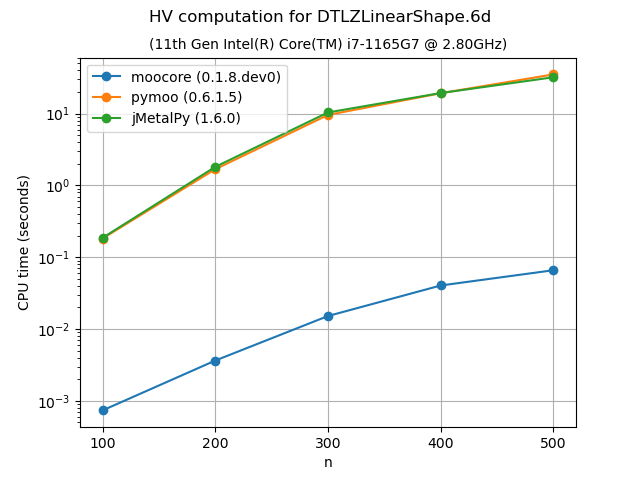
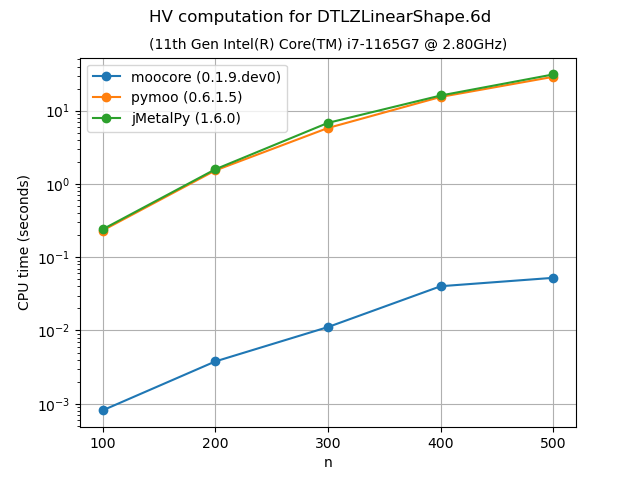
python/ Update benchmarks.

diff --git a/python/benchmarks/bench.py b/python/benchmarks/bench.py
@@ -2,6 +2,7 @@ import pathlib
 import numpy as np
 import pandas as pd
 import matplotlib.pyplot as plt
+from matplotlib.ticker import FixedLocator, FixedFormatter
 import moocore
 import timeit
 import cpuinfo
@@ -53,6 +54,10 @@ def get_range(lenx, start, stop, step):
     return np.arange(start, min(stop, lenx) + 1, step)
 
 
+def get_geomrange(lenx, start, stop, num):
+    return np.geomspace(start, min(stop, lenx), num=num, dtype=int)
+
+
 def get_package_version(package):
     package = package.split(maxsplit=1)[0]
     match package:
@@ -68,6 +73,8 @@ def get_package_version(package):
             from trieste import __version__ as version
         case "paretoset":
             from paretoset import __version__ as version
+        case "nevergrad":
+            from nevergrad import __version__ as version
         case "DEAP_er":
             # Requires version >= 0.2.0
             from deap_er import __version__ as version
@@ -112,6 +119,7 @@ class Bench:
     def __call__(self, what, n, *args, **kwargs):
         # FIXME: Ideally, bench() would call fun for each value in self.n
         assert n in self.n
+        # FIXME: Allow passing a setup() function.
         fun = self.bench[what]
         duration, value = timeit.Timer(lambda: fun(*args, **kwargs)).timeit(
             number=3
@@ -122,23 +130,29 @@ class Bench:
         print(f"{self.name}:{n}:{what}:{duration}")
         return value
 
-    def plots(self, title, file_prefix):
+    def plots(self, title, file_prefix, log="y"):
         for what in self.keys():
             self.times[what] = np.asarray(self.times[what])
 
+        logx = "x" in log
+        logy = "y" in log
         df = (
             pd.DataFrame(dict(n=self.n, **self.times))
             .set_index("n")
             .rename(columns=self.versions)
         )
-        df.plot(
+        ax = df.plot(
             grid=True,
-            logy=True,
+            logx=logx,
+            logy=logy,
             style="o-",
             title="",
             xticks=df.index,
             ylabel="CPU time (seconds)",
         )
+        if logx:
+            ax.xaxis.set_major_locator(FixedLocator(df.index))
+            ax.xaxis.set_major_formatter(FixedFormatter(df.index))
         plt.title(f"({self.cpu_model})", fontsize=10)
         plt.suptitle(f"{title} for {self.name}", fontsize=12)
         plt.savefig(f"{file_prefix}_bench-{self.name}-time.png")
@@ -157,13 +171,18 @@ class Bench:
                 .set_index("n")
                 .rename(columns=self.versions)
             )
-            df.plot(
+            ax = df.plot(
                 grid=True,
+                logx=logx,
+                logy=False,  # Looks bad with logy
                 style="o-",
                 title="",
                 xticks=df.index,
                 ylabel="Time relative to moocore",
             )
+            if logx:
+                ax.xaxis.set_major_locator(FixedLocator(df.index))
+                ax.xaxis.set_major_formatter(FixedFormatter(df.index))
             plt.title(f"({self.cpu_model})", fontsize=10)
             plt.suptitle(f"{title} for {self.name}", fontsize=12)
             plt.savefig(f"{file_prefix}_bench-{self.name}-reltime.png")
@@ -181,7 +200,8 @@ class Bench:
         )
         df.plot(
             grid=True,
-            logy=True,
+            logx=logx,
+            logy=logy,
             style="o-",
             title="",
             xticks=df.index,

diff --git a/python/benchmarks/bench_ndom.py b/python/benchmarks/bench_ndom.py
@@ -5,7 +5,7 @@ This example benchmarks the hypervolume implementation in ``moocore`` against ot
 
 """
 
-from bench import Bench, get_range
+from bench import Bench, get_geomrange
 
 import numpy as np
 import moocore
@@ -27,23 +27,35 @@ from paretoset import paretoset
 
 # See https://github.com/multi-objective/testsuite/tree/main/data
 files = {
-    "test2D-200k": dict(file="test2D-200k.inp.xz", range=(2000, 20_000, 2000)),
-    "ran3d-10k": dict(file="ran.1000pts.3d.10", range=(1000, 10_000, 1000)),
+    # range are the (start, stop, num) parameters for np.geomspace()
+    "test2D-200k": dict(file="test2D-200k.inp.xz", range=(1000, 50_000, 10)),
+    "ran3d-40k": dict(file="ran.40000pts.3d.1.xz", range=(1000, 40_000, 10)),
+    "sphere-4d": dict(
+        generate=(30000, 4, "sphere", 42), range=(1000, 30000, 10)
+    ),
+    "sphere-5d": dict(
+        generate=(20000, 5, "sphere", 42), range=(1000, 20000, 10)
+    ),
 }
-
-
-title = "is_non_dominated(keep_weakly=False)"
-file_prefix = "ndom"
 
 
 def bool2pos(x):
     return np.nonzero(np.asarray(x))[0]
 
 
+def get_dataset(name):
+    if "generate" in files[name]:
+        n, d, method, seed = files[name]["generate"]
+        return moocore.generate_ndset(n, d, method=method, seed=seed)
+    return moocore.get_dataset(files[name]["file"])[:, :-1]
+
+
+title = "is_non_dominated(keep_weakly=False)"
+file_prefix = "ndom"
 names = files.keys()
 for name in names:
-    x = moocore.get_dataset(files[name]["file"])[:, :-1]
-    n = get_range(len(x), *files[name]["range"])
+    x = get_dataset(name)
+    n = get_geomrange(len(x), *files[name]["range"])
 
     bench = Bench(
         name=name,
@@ -83,7 +95,7 @@ for name in names:
             )
 
     del values
-    bench.plots(file_prefix=file_prefix, title=title)
+    bench.plots(file_prefix=file_prefix, title=title, log="xy")
 
 
 title = "is_non_dominated(keep_weakly=True)"
@@ -91,8 +103,8 @@ file_prefix = "wndom"
 
 names = files.keys()
 for name in names:
-    x = moocore.get_dataset(files[name]["file"])[:, :-1]
-    n = get_range(len(x), *files[name]["range"])
+    x = get_dataset(name)
+    n = get_geomrange(len(x), *files[name]["range"])
 
     bench = Bench(
         name=name,
@@ -143,6 +155,6 @@ for name in names:
             )
 
     del values
-    bench.plots(file_prefix=file_prefix, title=title)
+    bench.plots(file_prefix=file_prefix, title=title, log="xy")
 
 plt.show()

diff --git a/python/benchmarks/bench_hv.py b/python/benchmarks/bench_hv.py
@@ -16,6 +16,9 @@ from botorch.utils.multi_objective.hypervolume import Hypervolume as botorch_HV
 import torch
 from pymoo.indicators.hv import Hypervolume as pymoo_HV
 from jmetal.core.quality_indicator import HyperVolume as jmetal_HV
+from nevergrad.optimization.multiobjective import HypervolumeIndicator as ng_HV
+
+
 # from trieste.acquisition.multi_objective import Pareto as trieste_Pareto
 # import tensorflow as tf
 
@@ -31,7 +34,7 @@ files = {
     ),
     "DTLZLinearShape.4d": dict(
         file=path_to_data + "DTLZLinearShape.4d.front.1000pts.10",
-        range=(300, 1500, 200),
+        range=(100, 1000, 150),
     ),
     "DTLZLinearShape.5d": dict(
         file=path_to_data + "DTLZLinearShape.5d.front.500pts.10",
@@ -49,7 +52,8 @@ file_prefix = "hv"
 names = files.keys()
 for name in names:
     x = read_datasets_and_filter_dominated(files[name]["file"])
-    ref = np.ones(x.shape[1])
+    dim = x.shape[1]
+    ref = np.ones(dim)
     n = get_range(len(x), *files[name]["range"])
 
     benchmarks = {
@@ -57,13 +61,16 @@ for name in names:
         "pymoo": lambda z, hv=pymoo_HV(ref_point=ref): hv(z),
         "jMetalPy": lambda z, hv=jmetal_HV(ref): hv.compute(z),
     }
-    if name not in ["DTLZLinearShape.5d", "DTLZLinearShape.6d"]:
+    if dim < 5:
         ## Trieste is hundreds of times slower than botorch. It is so slow that
         ## we cannot run the benchmark with the initial value of 500 points.
         # benchmarks["trieste"] = lambda z, tf_ref=tf.convert_to_tensor(ref): float(trieste_Pareto(z, already_non_dominated=True).hypervolume_indicator(tf_ref))
         benchmarks["botorch"] = lambda z, hv=botorch_HV(
             ref_point=torch.from_numpy(-ref)
         ): hv.compute(z)
+    if dim < 6:
+        # Nevergrad is too slow
+        benchmarks["nevergrad"] = lambda z, hv=ng_HV(ref): hv.compute(z)
 
     bench = Bench(name=name, n=n, bench=benchmarks)
     values = {}

diff --git a/python/doc/source/index.rst b/python/doc/source/index.rst
@@ -66,7 +66,7 @@ performance measures, performance assessment
 Benchmarks
 ==========
 
-The following plots compare the performance of `moocore`_, `pymoo`_, `BoTorch`_, `DESDEO`_, `paretoset`_ and `jMetalPy`_. Other Python packages are not included in the comparison because they are based on these packages for the functionality benchmarked, so they are **at least as slow** as them. For example `Xopt`_ and `BoFire`_ use `BoTorch`_, `pysamoo`_ is an extension of `pymoo`_, `DESDEO`_ already uses `moocore`_ for hypervolume and other quality metrics, and most of the multi-objective functionality of `DEAP`_ is shared by `pymoo`_.  We do not compare with the Bayesian optimization toolbox `trieste`_, because it is much slower than `BoTorch`_ and too slow to run the benchmarks in a reasonable time.
+The following plots compare the performance of `moocore`_, `pymoo`_, `BoTorch`_, `DESDEO`_, `paretoset`_, `Nevergrad`_ and `jMetalPy`_. Other Python packages are not included in the comparison because they are based on these packages for the functionality benchmarked, so they are **at least as slow** as them. For example `Xopt`_ and `BoFire`_ use `BoTorch`_, `pysamoo`_ is an extension of `pymoo`_, `DESDEO`_ already uses `moocore`_ for hypervolume and other quality metrics, and most of the multi-objective functionality of `DEAP`_ is shared by `pymoo`_.  We do not compare with the Bayesian optimization toolbox `trieste`_, because it is much slower than `BoTorch`_ and too slow to run the benchmarks in a reasonable time.
 
 Not all packages provide the same functionality. For example, `pymoo`_ does not provide the :ref:`epsilon indicator <epsilon_metric>` whereas `jMetalPy`_ does not provide the :ref:`IGD+ indicator <igd_hausdorf>`. `BoTorch`_ provides neither of them. `paretoset`_ only identifies nondominated points.
 
@@ -78,27 +78,45 @@ Identifying nondominated points
 
 The following plots compare the speed of finding nondominated solutions, equivalent to :func:`moocore.is_nondominated`, in 2D and 3D. We test both ``keep_weakly=True`` and ``keep_weakly=False`` (the latter is not supported by `pymoo`_ nor `DESDEO`_).  The plots show that `moocore`_ is 10 times faster than `DESDEO`_ and `paretoset`_ and 100 times faster than the other packages.
 
-|wndom_bench-test2D-200k| |wndom_bench-ran3d-10k|
+|wndom_bench-test2D-200k| |wndom_bench-ran3d-40k|
 
 .. |wndom_bench-test2D-200k| image:: _static/bench/wndom_bench-test2D-200k-time.png
    :width: 49%
 
-.. |wndom_bench-ran3d-10k| image:: _static/bench/wndom_bench-ran3d-10k-time.png
+.. |wndom_bench-ran3d-40k| image:: _static/bench/wndom_bench-ran3d-40k-time.png
    :width: 49%
 
-|ndom_bench-test2D-200k| |ndom_bench-ran3d-10k|
+|ndom_bench-test2D-200k| |ndom_bench-ran3d-40k|
 
 .. |ndom_bench-test2D-200k| image:: _static/bench/ndom_bench-test2D-200k-time.png
    :width: 49%
 
-.. |ndom_bench-ran3d-10k| image:: _static/bench/ndom_bench-ran3d-10k-time.png
+.. |ndom_bench-ran3d-40k| image:: _static/bench/ndom_bench-ran3d-40k-time.png
    :width: 49%
 
+For dimensions larger than 3, :func:`moocore.is_nondominated` still uses the
+naive :math:`O(m n^2)` algorithm.  Nevertheless, the plots show that `moocore`_ is still consistently faster than the other packages.
+
+|wndom_bench-sphere-4d| |wndom_bench-sphere-5d|
+
+.. |wndom_bench-sphere-4d| image:: _static/bench/wndom_bench-sphere-4d-time.png
+   :width: 49%
+
+.. |wndom_bench-sphere-5d| image:: _static/bench/wndom_bench-sphere-5d-time.png
+   :width: 49%
+
+|ndom_bench-sphere-4d| |ndom_bench-sphere-5d|
+
+.. |ndom_bench-sphere-4d| image:: _static/bench/ndom_bench-sphere-4d-time.png
+   :width: 49%
+
+.. |ndom_bench-sphere-5d| image:: _static/bench/ndom_bench-sphere-5d-time.png
+   :width: 49%
 
 Exact computation of hypervolume
 --------------------------------
 
-The following plots compare the speed of computing the :ref:`hypervolume indicator <hypervolume_metric>` in 3D, 4D, 5D and 6D. As the plots show, `moocore`_ is 100 times faster than the other packages and 1000 times faster than `BoTorch`_ and, by extension, `Xopt`_ and `BoFire`_.  `BoTorch`_ is not included for more than 4 objectives because it is tens of thousands of times slower than `moocore`_.
+The following plots compare the speed of computing the :ref:`hypervolume indicator <hypervolume_metric>` in 3D, 4D, 5D and 6D. As the plots show, `moocore`_ is 100 times faster than the other packages and 1000 times faster than `BoTorch`_ and, by extension, `Xopt`_ and `BoFire`_.  `BoTorch`_ is not included for more than 4 objectives because **it is tens of thousands of times slower** than `moocore`_. `Nevergrad`_ is not included for more than 5 objectives for the same reason.
 
 |hv_bench-DTLZLinearShape-3d| |hv_bench-DTLZLinearShape-4d|
 
@@ -218,6 +236,7 @@ The following plots compare the speed of computing the :ref:`epsilon indicator  
 .. _trieste: https://secondmind-labs.github.io/trieste
 .. _Numba: https://numba.pydata.org/numba-doc/dev/index.html
 .. _paretoset: https://github.com/tommyod/paretoset
+.. _Nevergrad: https://facebookresearch.github.io/nevergrad/
 
 .. This is not really the index page, that is found in
    _templates/indexcontent.html The toctree content here will be added to the

diff --git a/python/doc/source/whatsnew/index.rst b/python/doc/source/whatsnew/index.rst
@@ -14,7 +14,7 @@ Version 0.1.9 (dev)
   sets with different shapes.
 - New example :ref:`sphx_glr_auto_examples_plot_generate.py`.
 - :func:`~moocore.is_nondominated` and :func:`~moocore.any_dominated` now handle single-objective inputs correctly (:issue:`27`).
-
+- :func:`~moocore.is_nondominated` and :func:`~moocore.filter_dominated` are faster for dimensions larger than 3.
 
 Version 0.1.8 (15/07/2025)
 --------------------------
